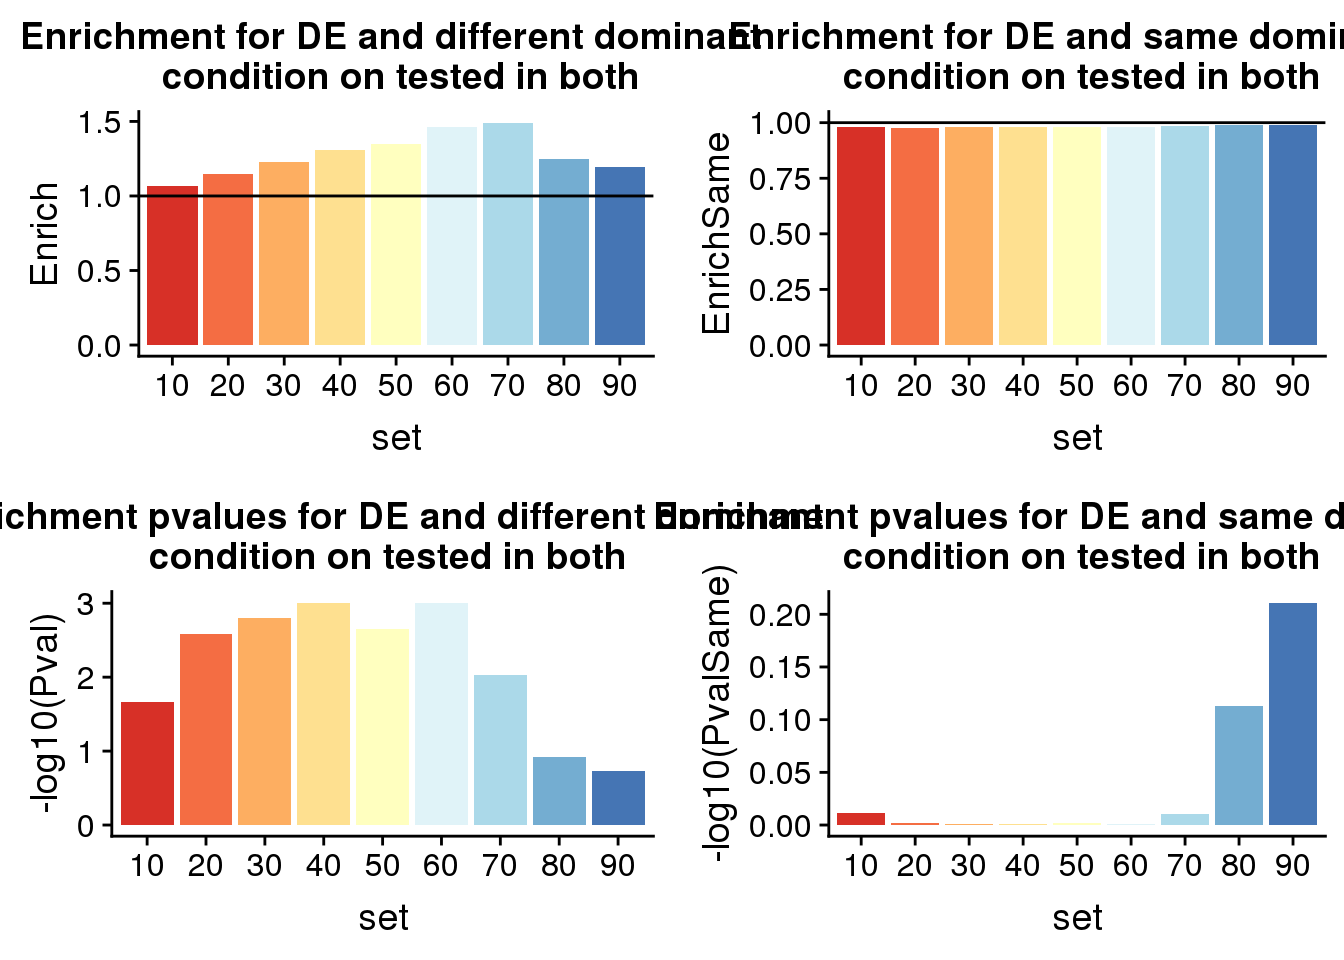
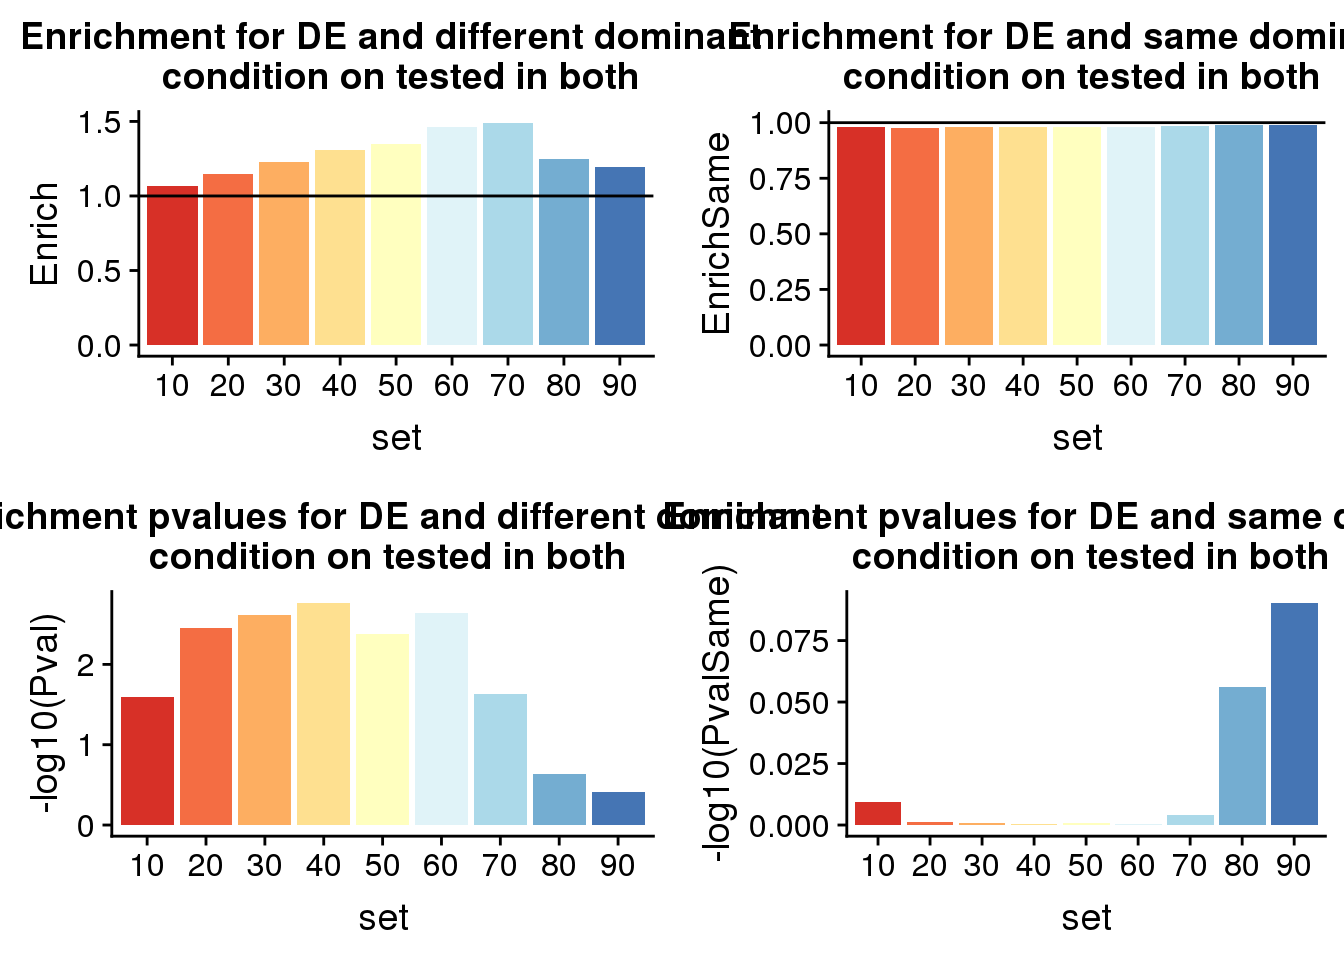
Build site.

diff --git a/docs/NewdomanddAPA.html b/docs/NewdomanddAPA.html
@@ -434,10 +434,10 @@ This reproducible <a href="http://rmarkdown.rstudio.com">R Markdown</a> analysis
 <div class="panel panel-default">
 <div class="panel-heading">
 <p class="panel-title">
-<a data-toggle="collapse" data-parent="#workflowr-checks" href="#strongRepositoryversionstrongahrefhttpsgithubcombrimittlemanComparativeAPAtreee513e9f83f244e91b95d8a0673a3721a691396b6targetblanke513e9fa"> <span class="glyphicon glyphicon-ok text-success" aria-hidden="true"></span> <strong>Repository version:</strong> <a href="https://github.com/brimittleman/Comparative_APA/tree/e513e9f83f244e91b95d8a0673a3721a691396b6" target="_blank">e513e9f</a> </a>
+<a data-toggle="collapse" data-parent="#workflowr-checks" href="#strongRepositoryversionstrongahrefhttpsgithubcombrimittlemanComparativeAPAtree5168eee7f7d76f04b542b3eb9b3faf9bb417ac66targetblank5168eeea"> <span class="glyphicon glyphicon-ok text-success" aria-hidden="true"></span> <strong>Repository version:</strong> <a href="https://github.com/brimittleman/Comparative_APA/tree/5168eee7f7d76f04b542b3eb9b3faf9bb417ac66" target="_blank">5168eee</a> </a>
 </p>
 </div>
[2 lines of base64/hex data omitted]
 <div class="panel-body">
 <p>
 Great! You are using Git for version control. Tracking code development and connecting the code version to the results is critical for reproducibility. The version displayed above was the version of the Git repository at the time these results were generated. <br><br> Note that you need to be careful to ensure that all relevant files for the analysis have been committed to Git prior to generating the results (you can use <code>wflow_publish</code> or <code>wflow_git_commit</code>). workflowr only checks the R Markdown file, but you know if there are other scripts or data files that it depends on. Below is the status of the Git repository when the results were generated:
@@ -447,7 +447,6 @@ Ignored files:
     Ignored:    .DS_Store
     Ignored:    .Rhistory
     Ignored:    .Rproj.user/
-    Ignored:    analysis/figure/
     Ignored:    code/chimp_log/
     Ignored:    code/human_log/
     Ignored:    data/.DS_Store
@@ -1262,6 +1261,7 @@ Unstaged changes:
     Modified:   analysis/changeMisprimcut.Rmd
     Modified:   analysis/comp2apaQTLPAS.Rmd
     Modified:   analysis/correlationPhenos.Rmd
+    Modified:   analysis/dAPAdPnotE.Rmd
     Modified:   analysis/establishCutoffs.Rmd
     Modified:   analysis/investigatePantro5.Rmd
     Modified:   analysis/multiMap.Rmd
@@ -1306,6 +1306,40 @@ Message
 </tr>
 </thead>
 <tbody>
+<tr>
+<td>
+Rmd
+</td>
+<td>
+<a href="https://github.com/brimittleman/Comparative_APA/blob/5168eee7f7d76f04b542b3eb9b3faf9bb417ac66/analysis/NewdomanddAPA.Rmd" target="_blank">5168eee</a>
+</td>
+<td>
+brimittleman
+</td>
+<td>
+2020-04-23
+</td>
+<td>
+fix expected, and p
+</td>
+</tr>
+<tr>
+<td>
+html
+</td>
+<td>
+<a href="https://rawcdn.githack.com/brimittleman/Comparative_APA/3790efa6842b4564ad18aefed223ab5c7608b89e/docs/NewdomanddAPA.html" target="_blank">3790efa</a>
+</td>
+<td>
+brimittleman
+</td>
+<td>
+2020-04-23
+</td>
+<td>
+Build site.
+</td>
+</tr>
 <tr>
 <td>
 Rmd
@@ -1415,12 +1449,12 @@ Attaching package: &#39;cowplot&#39;</code></pre>
 
     ggsave</code></pre>
 <pre class="r"><code>library(tidyverse)</code></pre>
-<pre><code>── Attaching packages ─────────────────────────────────────────────────────── tidyverse 1.2.1 ──</code></pre>
+<pre><code>── Attaching packages ────────────────────────────────────────────────────────── tidyverse 1.2.1 ──</code></pre>
 <pre><code>✔ tibble  2.1.1       ✔ purrr   0.3.2  
 ✔ tidyr   0.8.3       ✔ dplyr   0.8.0.1
 ✔ readr   1.3.1       ✔ stringr 1.3.1  
 ✔ tibble  2.1.1       ✔ forcats 0.3.0  </code></pre>
-<pre><code>── Conflicts ────────────────────────────────────────────────────────── tidyverse_conflicts() ──
+<pre><code>── Conflicts ───────────────────────────────────────────────────────────── tidyverse_conflicts() ──
 ✖ tidyr::extract()   masks magrittr::extract()
 ✖ dplyr::filter()    masks stats::filter()
 ✖ cowplot::ggsave()  masks ggplot2::ggsave()
@@ -1461,10 +1495,11 @@ for (i in set){
   n=nrow(All %&gt;% filter(cut==i, dAPA==&quot;No&quot;))
   k=nrow(All %&gt;% filter(cut==i, Set==&quot;Different&quot;))
   N=nrow(All %&gt;% filter(cut==i))
-  val=phyper(x,m,n,k,lower.tail=F)
+  val=phyper(x-1,m,n,k,lower.tail=F)
   Pval= c(Pval, val)
   en=(x/k)/(m/N)
-  ex=which(grepl(max(dhyper(1:x, m, n, k)), dhyper(1:x, m, n, k)))
+  #ex=which(grepl(max(dhyper(1:x, m, n, k)), dhyper(1:x, m, n, k)))
+  ex=k*(m/N)
   expected=c(expected,ex)
   Enrich=c(Enrich, en)
 }
@@ -1478,16 +1513,16 @@ diffp=ggplot(ResDF,aes(x=set, y=-log10(Pval),fill=set)) + geom_bar(stat=&quot;id
 
 diffe=ggplot(ResDF,aes(x=set, y=Enrich, fill=set)) + geom_bar(stat=&quot;identity&quot;) + geom_hline(yintercept = 1)+labs(title=&quot;Enrichment for dAPA and different dominant \n condition on tested in both&quot;)+ scale_fill_brewer(palette = &quot;RdYlBu&quot;) + theme(legend.position = &quot;none&quot;)</code></pre>
 <pre class="r"><code>ResDF</code></pre>
-<pre><code>  set          Pval   Enrich actual expected
-1  10 1.797208e-189 2.414802    704      291
-2  20 6.026541e-203 3.206692    467      145
-3  30 5.272942e-165 3.933034    283       72
-4  40 5.937071e-127 4.641345    178       38
-5  50  0.000000e+00 5.107914    118       23
-6  60  0.000000e+00 5.800000     75       13
-7  70  0.000000e+00 7.043478     39        5
-8  80  0.000000e+00 7.242105     27        3
-9  90  0.000000e+00 7.343750     12        1</code></pre>
+<pre><code>  set          Pval   Enrich actual   expected
+1  10 1.390016e-188 2.414802    704 291.535347
+2  20 1.103542e-201 3.206692    467 145.632926
+3  30 2.817467e-163 3.933034    283  71.954625
+4  40 1.441990e-124 4.641345    178  38.350954
+5  50  7.617389e-91 5.107914    118  23.101408
+6  60  4.656864e-62 5.800000     75  12.931034
+7  70  1.103789e-35 7.043478     39   5.537037
+8  80  1.695198e-25 7.242105     27   3.728198
+9  90  5.072762e-12 7.343750     12   1.634043</code></pre>
 <pre class="r"><code>PvalSame=c()
 EnrichSame=c()
 expectedSame=c()
@@ -1500,11 +1535,12 @@ for (i in set){
   n=nrow(All %&gt;% filter(cut==i, dAPA==&quot;No&quot;))
   k=nrow(All %&gt;% filter(cut==i, Set==&quot;Same&quot;))
   N=nrow(All %&gt;% filter(cut==i))
-  val=phyper(x,m,n,k,lower.tail=F)
-  PvalSame= c(PvalSame, round(val,3))
+  val=phyper(x-1,m,n,k,lower.tail=F)
+  PvalSame= c(PvalSame, val)
   en=(x/k)/(m/N)
   EnrichSame=c(EnrichSame, en)
-  ex=which(grepl(max(dhyper(1:x, m, n, k)), dhyper(1:x, m, n, k)))
+  #ex=which(grepl(max(dhyper(1:x, m, n, k)), dhyper(1:x, m, n, k)))
+  ex=k*(m/N)
   expectedSame=c(expectedSame,ex)
 }
 
@@ -1518,15 +1554,15 @@ samep=ggplot(ResDFSame,aes(x=set, y=-log10(PvalSame),fill=set)) + geom_bar(stat=
 samee=ggplot(ResDFSame,aes(x=set, y=EnrichSame,fill=set)) + geom_bar(stat=&quot;identity&quot;) + geom_hline(yintercept = 1)+labs(title=&quot;Enrichment for dAPA and same dominant \n condition on tested in both&quot;)+ scale_fill_brewer(palette = &quot;RdYlBu&quot;) + theme(legend.position = &quot;none&quot;)</code></pre>
 <pre class="r"><code>ResDFSame</code></pre>
 <pre><code>  set PvalSame EnrichSame actualSame expectedSame
-1  10        1  0.6125145        652          652
-2  20        1  0.6496854        596          596
-3  30        1  0.7093221        515          515
-4  40        1  0.7392900        396          396
-5  50        1  0.7590786        299          299
-6  60        1  0.7631579        200          200
-7  70        1  0.7847528        122          122
-8  80        1  0.7450275         68           68
-9  90        1  0.6586323         20           20</code></pre>
+1  10        1  0.6125145        652   1064.46465
+2  20        1  0.6496854        596    917.36707
+3  30        1  0.7093221        515    726.04538
+4  40        1  0.7392900        396    535.64905
+5  50        1  0.7590786        299    393.89859
+6  60        1  0.7631579        200    262.06897
+7  70        1  0.7847528        122    155.46296
+8  80        1  0.7450275         68     91.27180
+9  90        1  0.6586323         20     30.36596</code></pre>
 <p>Proportion of dAPA genes:</p>
 <pre class="r"><code>PropDapa=as.data.frame(cbind(set, OverlapdAPA=actual, dAPA=rep(nrow(dAPAGenes),9))) %&gt;% mutate(Prop=OverlapdAPA/dAPA)
 PropDapa$set=as.factor(PropDapa$set)
@@ -1554,6 +1590,17 @@ Date
 </tr>
 </thead>
 <tbody>
+<tr>
+<td>
+<a href="https://github.com/brimittleman/Comparative_APA/blob/3790efa6842b4564ad18aefed223ab5c7608b89e/docs/figure/NewdomanddAPA.Rmd/unnamed-chunk-7-1.png" target="_blank">3790efa</a>
+</td>
+<td>
+brimittleman
+</td>
+<td>
+2020-04-23
+</td>
+</tr>
 <tr>
 <td>
 <a href="https://github.com/brimittleman/Comparative_APA/blob/53a75707083d909ad1c9cf54e2a9c8f94ce45bc3/docs/figure/NewdomanddAPA.Rmd/unnamed-chunk-7-1.png" target="_blank">53a7570</a>

diff --git a/docs/NewDomandDE.html b/docs/NewDomandDE.html
@@ -434,10 +434,10 @@ This reproducible <a href="http://rmarkdown.rstudio.com">R Markdown</a> analysis
 <div class="panel panel-default">
 <div class="panel-heading">
 <p class="panel-title">
-<a data-toggle="collapse" data-parent="#workflowr-checks" href="#strongRepositoryversionstrongahrefhttpsgithubcombrimittlemanComparativeAPAtreee513e9f83f244e91b95d8a0673a3721a691396b6targetblanke513e9fa"> <span class="glyphicon glyphicon-ok text-success" aria-hidden="true"></span> <strong>Repository version:</strong> <a href="https://github.com/brimittleman/Comparative_APA/tree/e513e9f83f244e91b95d8a0673a3721a691396b6" target="_blank">e513e9f</a> </a>
+<a data-toggle="collapse" data-parent="#workflowr-checks" href="#strongRepositoryversionstrongahrefhttpsgithubcombrimittlemanComparativeAPAtree5168eee7f7d76f04b542b3eb9b3faf9bb417ac66targetblank5168eeea"> <span class="glyphicon glyphicon-ok text-success" aria-hidden="true"></span> <strong>Repository version:</strong> <a href="https://github.com/brimittleman/Comparative_APA/tree/5168eee7f7d76f04b542b3eb9b3faf9bb417ac66" target="_blank">5168eee</a> </a>
 </p>
 </div>
[2 lines of base64/hex data omitted]
 <div class="panel-body">
 <p>
 Great! You are using Git for version control. Tracking code development and connecting the code version to the results is critical for reproducibility. The version displayed above was the version of the Git repository at the time these results were generated. <br><br> Note that you need to be careful to ensure that all relevant files for the analysis have been committed to Git prior to generating the results (you can use <code>wflow_publish</code> or <code>wflow_git_commit</code>). workflowr only checks the R Markdown file, but you know if there are other scripts or data files that it depends on. Below is the status of the Git repository when the results were generated:
@@ -1261,6 +1261,7 @@ Unstaged changes:
     Modified:   analysis/changeMisprimcut.Rmd
     Modified:   analysis/comp2apaQTLPAS.Rmd
     Modified:   analysis/correlationPhenos.Rmd
+    Modified:   analysis/dAPAdPnotE.Rmd
     Modified:   analysis/establishCutoffs.Rmd
     Modified:   analysis/investigatePantro5.Rmd
     Modified:   analysis/multiMap.Rmd
@@ -1305,6 +1306,40 @@ Message
 </tr>
 </thead>
 <tbody>
+<tr>
+<td>
+Rmd
+</td>
+<td>
+<a href="https://github.com/brimittleman/Comparative_APA/blob/5168eee7f7d76f04b542b3eb9b3faf9bb417ac66/analysis/NewDomandDE.Rmd" target="_blank">5168eee</a>
+</td>
+<td>
+brimittleman
+</td>
+<td>
+2020-04-23
+</td>
+<td>
+fix expected, and p
+</td>
+</tr>
+<tr>
+<td>
+html
+</td>
+<td>
+<a href="https://rawcdn.githack.com/brimittleman/Comparative_APA/3790efa6842b4564ad18aefed223ab5c7608b89e/docs/NewDomandDE.html" target="_blank">3790efa</a>
+</td>
+<td>
+brimittleman
+</td>
+<td>
+2020-04-23
+</td>
+<td>
+Build site.
+</td>
+</tr>
 <tr>
 <td>
 Rmd
@@ -1520,12 +1555,12 @@ new dom integration
 <pre><code>This is workflowr version 1.6.0
 Run ?workflowr for help getting started</code></pre>
 <pre class="r"><code>library(tidyverse)</code></pre>
-<pre><code>── Attaching packages ─────────────────────────────────────────────────────── tidyverse 1.2.1 ──</code></pre>
+<pre><code>── Attaching packages ────────────────────────────────────────────────────────── tidyverse 1.2.1 ──</code></pre>
 <pre><code>✔ ggplot2 3.1.1       ✔ purrr   0.3.2  
 ✔ tibble  2.1.1       ✔ dplyr   0.8.0.1
 ✔ tidyr   0.8.3       ✔ stringr 1.3.1  
 ✔ readr   1.3.1       ✔ forcats 0.3.0  </code></pre>
-<pre><code>── Conflicts ────────────────────────────────────────────────────────── tidyverse_conflicts() ──
+<pre><code>── Conflicts ───────────────────────────────────────────────────────────── tidyverse_conflicts() ──
 ✖ dplyr::filter() masks stats::filter()
 ✖ dplyr::lag()    masks stats::lag()</code></pre>
 <pre class="r"><code>library(cowplot)</code></pre>
@@ -1722,11 +1757,12 @@ for (i in set){
   n=nrow(All4 %&gt;% filter(cut==i, DE==&quot;No&quot;))
   k=nrow(All4 %&gt;% filter(cut==i, Set==&quot;Different&quot;))
   N=nrow(All4 %&gt;% filter(cut==i))
-  val=phyper(x,m,n,k,lower.tail=F)
+  val=phyper(x-1,m,n,k,lower.tail=F)
   Pval= c(Pval, val)
   en=(x/k)/(m/N)
   Enrich=c(Enrich, en)
-  ex=which(grepl(max(dhyper(1:x, m, n, k)), dhyper(1:x, m, n, k)))
+  #ex=which(grepl(max(dhyper(1:x, m, n, k)), dhyper(1:x, m, n, k)))
+  ex=k*(m/N)
   expected=c(expected,ex)
 }
 
@@ -1751,11 +1787,12 @@ for (i in set){
   n=nrow(All4 %&gt;% filter(cut==i, DE==&quot;No&quot;))
   k=nrow(All4 %&gt;% filter(cut==i, Set==&quot;Same&quot;))
   N=nrow(All4 %&gt;% filter(cut==i))
-  val=phyper(x,m,n,k,lower.tail=F)
+  val=phyper(x-1,m,n,k,lower.tail=F)
   PvalSame= c(PvalSame, val)
   en=(x/k)/(m/N)
   EnrichSame=c(EnrichSame, en)
-  ex=which(grepl(max(dhyper(1:x, m, n, k)), dhyper(1:x, m, n, k)))
+  #ex=which(grepl(max(dhyper(1:x, m, n, k)), dhyper(1:x, m, n, k)))
+  ex=k*(m/N)
   expectedSame=c(expectedSame,ex)
 }
 
@@ -1767,27 +1804,27 @@ ResDFSame$EnrichSame=as.numeric(as.character(ResDFSame$EnrichSame))
 Samep=ggplot(ResDFSame,aes(x=set, y=-log10(PvalSame),fill=set)) + geom_bar(stat=&quot;identity&quot;) +labs(title=&quot;Enrichment pvalues for DE and same dominant \n condition on tested in both&quot;)+ scale_fill_brewer(palette = &quot;RdYlBu&quot;) + theme(legend.position = &quot;none&quot;)
 SameE=ggplot(ResDFSame,aes(x=set, y=EnrichSame,fill=set)) + geom_bar(stat=&quot;identity&quot;) + geom_hline(yintercept = 1)+labs(title=&quot;Enrichment for DE and same dominant \n condition on tested in both&quot;)+ scale_fill_brewer(palette = &quot;RdYlBu&quot;) + theme(legend.position = &quot;none&quot;)</code></pre>
 <pre class="r"><code>ResDF</code></pre>
-<pre><code>  set         Pval   Enrich actual expected
-1  10 0.0214838828 1.070079    430      402
-2  20 0.0026097426 1.146763    221      193
-3  30 0.0015771710 1.227587    116       94
-4  40 0.0009822532 1.305745     76       58
-5  50 0.0022261383 1.346146     51       38
-6  60 0.0009946632 1.461459     36       25
-7  70 0.0094683920 1.491590     18       12
-8  80 0.1209369997 1.247994     11        9
-9  90 0.1879141680 1.191860      6        5</code></pre>
+<pre><code>  set        Pval   Enrich actual   expected
+1  10 0.025369960 1.070079    430 401.839506
+2  20 0.003500182 1.146763    221 192.716425
+3  30 0.002404823 1.227587    116  94.494294
+4  40 0.001704216 1.305745     76  58.204341
+5  50 0.004173416 1.346146     51  37.885924
+6  60 0.002304926 1.461459     36  24.632911
+7  70 0.023483381 1.491590     18  12.067662
+8  80 0.228627744 1.247994     11   8.814145
+9  90 0.384878104 1.191860      6   5.034146</code></pre>
 <pre class="r"><code>ResDFSame</code></pre>
 <pre><code>  set  PvalSame EnrichSame actualSame expectedSame
-1  10 0.9746300  0.9816444       1506         1506
-2  20 0.9964998  0.9779256       1253         1253
-3  30 0.9975952  0.9794500       1025         1025
-4  40 0.9982958  0.9792784        841          841
-5  50 0.9958266  0.9808864        673          673
-6  60 0.9976951  0.9786078        520          520
-7  70 0.9765166  0.9838326        361          361
-8  80 0.7713723  0.9902498        222          222
-9  90 0.6151219  0.9880709         80           80</code></pre>
+1  10 0.9785161  0.9816444       1506   1534.16049
+2  20 0.9973903  0.9779256       1253   1281.28357
+3  30 0.9984228  0.9794500       1025   1046.50571
+4  40 0.9990177  0.9792784        841    858.79566
+5  50 0.9977739  0.9808864        673    686.11408
+6  60 0.9990053  0.9786078        520    531.36709
+7  70 0.9905316  0.9838326        361    366.93234
+8  80 0.8790630  0.9902498        222    224.18586
+9  90 0.8120858  0.9880709         80     80.96585</code></pre>
 <p>Look at propotion of DE genes</p>
 <pre class="r"><code>PropDE=as.data.frame(cbind(set, OverlapDE=actual, DE=rep(nrow(DE_yes),9))) %&gt;% mutate(Prop=OverlapDE/DE)
 PropDE$set=as.factor(PropDE$set)
@@ -1815,6 +1852,17 @@ Date
 </tr>
 </thead>
 <tbody>
+<tr>
+<td>
+<a href="https://github.com/brimittleman/Comparative_APA/blob/3790efa6842b4564ad18aefed223ab5c7608b89e/docs/figure/NewDomandDE.Rmd/unnamed-chunk-15-1.png" target="_blank">3790efa</a>
+</td>
+<td>
+brimittleman
+</td>
+<td>
+2020-04-23
+</td>
+</tr>
 <tr>
 <td>
 <a href="https://github.com/brimittleman/Comparative_APA/blob/53a75707083d909ad1c9cf54e2a9c8f94ce45bc3/docs/figure/NewDomandDE.Rmd/unnamed-chunk-15-1.png" target="_blank">53a7570</a>
